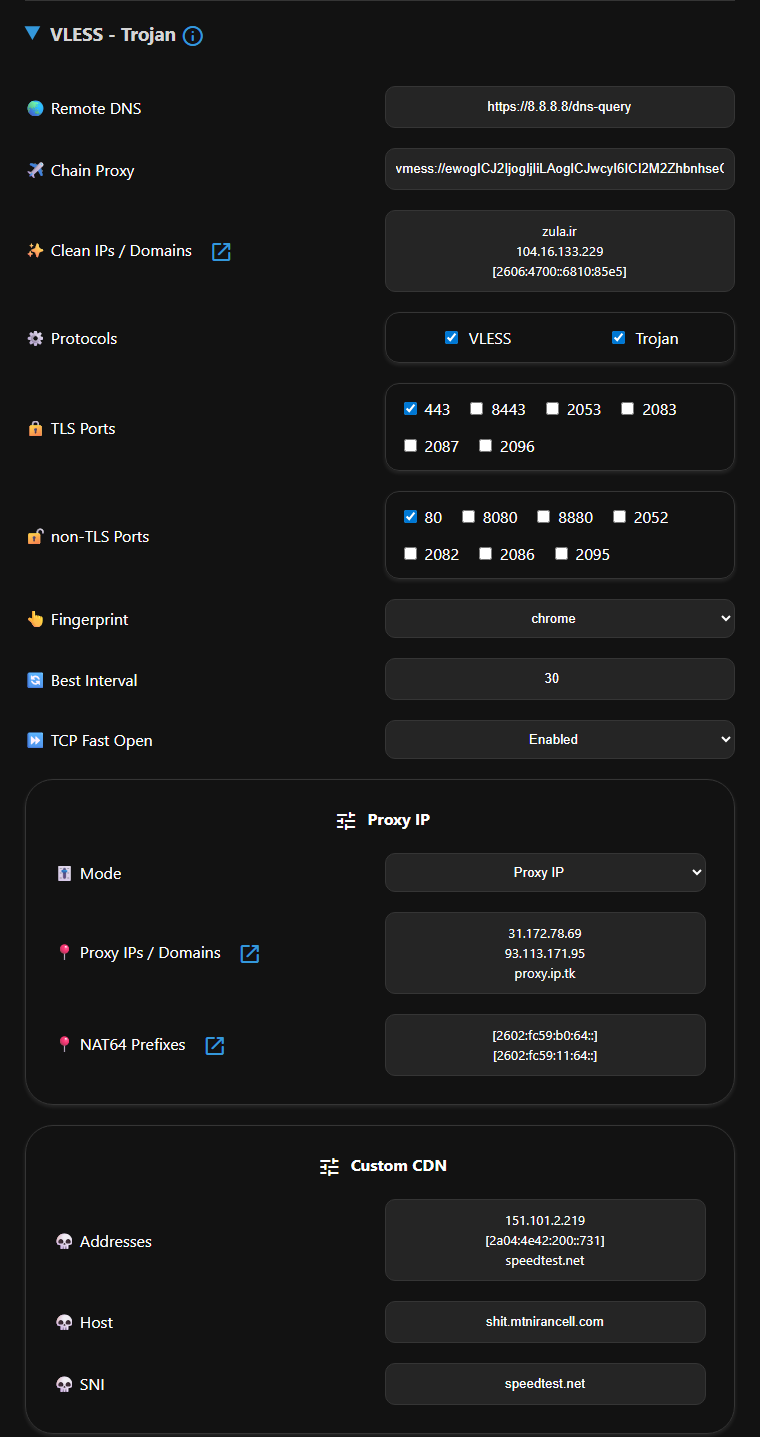
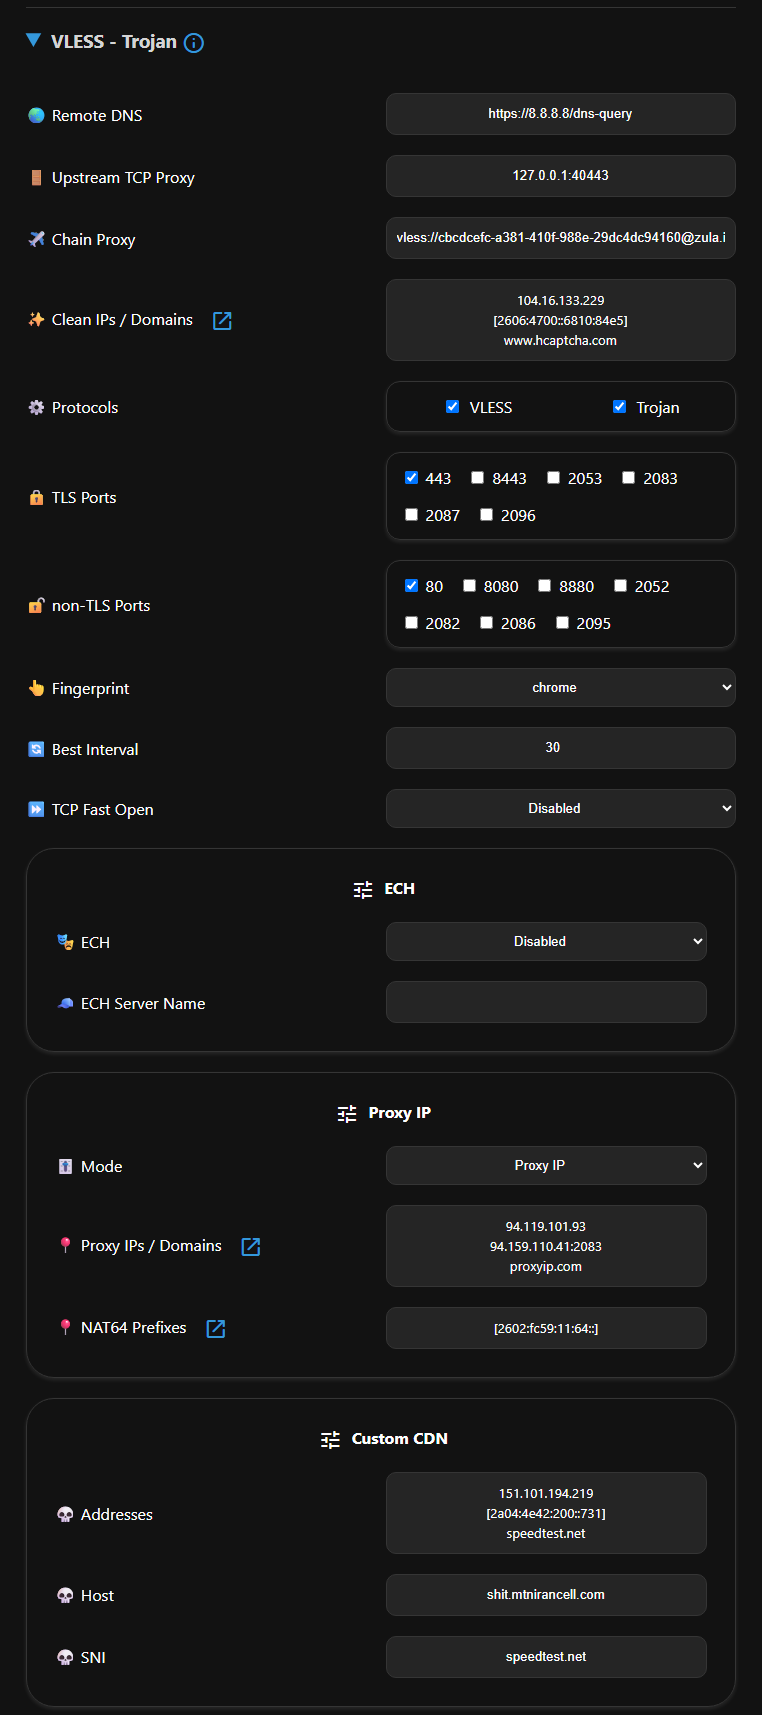
Removed Xray allowInsecure, updated docs, Release 4.2.2

diff --git a/src/cores/xray/outbounds.ts b/src/cores/xray/outbounds.ts
@@ -137,12 +137,11 @@ export function buildWebsocketOutbound(
     } = globalThis;
 
     const isTLS = isHttps(port) || address === upstreamServer;
-    const { host, sni, allowInsecure } = selectSniHost(address);
+    const { host, sni } = selectSniHost(address);
     const tlsSettings = isTLS ? buildTlsSettings(
         sni,
         fingerprint,
         "http/1.1",
-        allowInsecure,
         enableECH && !isFragment,
         echServerName || undefined,
     ) : undefined;
@@ -287,7 +286,7 @@ export function buildChainOutbound(): Outbound | undefined {
         network: type || "raw",
         ...buildTransport(type, headerType, path, host, serviceName, mode, authority),
         security,
-        tlsSettings: security === 'tls' ? buildTlsSettings(sni || address, fp, alpn, false, false, undefined) : undefined,
+        tlsSettings: security === 'tls' ? buildTlsSettings(sni || address, fp, alpn, false, undefined) : undefined,
         realitySettings: security === "reality" ? buildRealitySettings(sni, fp, pbk, sid, spx) : undefined,
         sockopt: buildSockopt(false, false, "UseIPv4", "proxy")
     };
@@ -443,7 +442,6 @@ function buildTlsSettings(
     serverName: string,
     fingerprint: Fingerprint,
     alpn: string,
-    allowInsecure: boolean,
     enableECH: boolean,
     echServerName?: string
 ): TlsSettings {
@@ -454,7 +452,6 @@ function buildTlsSettings(
         serverName,
         fingerprint: fingerprint,
         alpn: alpn?.split(','),
-        allowInsecure,
         echConfigList: enableECH
             ? echServerName
                 ? `${echServerName}+udp://${echQueryDNS}`

diff --git a/src/cores/xray/configs.ts b/src/cores/xray/configs.ts
@@ -69,7 +69,7 @@ async function buildConfig(
     const config: Config = {
         remarks: remark,
         version: {
-            min: "25.10.15"
+            min: "26.2.6"
         },
         log: {
             loglevel: logLevel,

diff --git a/src/types/xray.d.ts b/src/types/xray.d.ts
@@ -126,7 +126,6 @@ export interface TlsSettings {
     serverName: string;
     fingerprint: Fingerprint;
     alpn?: string[];
-    allowInsecure: boolean;
     echConfigList?: string;
 }
 

diff --git a/docs/fa/docs/index.md b/docs/fa/docs/index.md
@@ -43,19 +43,19 @@
 
 ## برنامههای پشتیبانیشده
 
-|       Client        |      Version      | پشتیبانی از Fragment | پشتیبانی از Warp Pro |
-| :-----------------: | :---------------: | :------------------: | :------------------: |
-|     **v2rayNG**     | 1.10.26 یا بالاتر |   :material-check:   |   :material-check:   |
-|     **MahsaNG**     |   14 یا بالاتر    |   :material-check:   |   :material-check:   |
-|     **v2rayN**      | 7.15.4 یا بالاتر  |   :material-check:   |   :material-check:   |
-|   **v2rayN-PRO**    |   1.9 یا بالاتر   |   :material-check:   |   :material-check:   |
-|    **Sing-box**     | 1.11.2 یا بالاتر  |   :material-close:   |   :material-close:   |
-|    **Streisand**    | 1.6.64 یا بالاتر  |   :material-check:   |   :material-check:   |
-|   **Clash Meta**    |                   |   :material-close:   |   :material-check:   |
-| **Clash Verge Rev** |                   |   :material-close:   |   :material-check:   |
-|     **FLClash**     |                   |   :material-close:   |   :material-check:   |
-|   **AmneziaVPN**    |                   |   :material-close:   |   :material-check:   |
-|    **WG Tunnel**    |                   |   :material-close:   |   :material-check:   |
+|       Client        | حداقل نسخه پشتیبانی | پشتیبانی از Fragment | پشتیبانی از Warp Pro |
+| :-----------------: | :-----------------: | :------------------: | :------------------: |
+|     **v2rayNG**     |        2.2.3        |  :heavy_check_mark:  |  :heavy_check_mark:  |
+|     **MahsaNG**     |         16          |  :heavy_check_mark:  |  :heavy_check_mark:  |
+|     **v2rayN**      |       7.22.5        |  :heavy_check_mark:  |  :heavy_check_mark:  |
+|   **v2rayN-PRO**    |         2.0         |  :heavy_check_mark:  |  :heavy_check_mark:  |
+|    **Sing-box**     |       1.12.0        |  :heavy_check_mark:  |         :x:          |
+|    **Streisand**    |       1.6.71        |  :heavy_check_mark:  |  :heavy_check_mark:  |
+|   **Clash Meta**    |                     |         :x:          |  :heavy_check_mark:  |
+| **Clash Verge Rev** |                     |         :x:          |  :heavy_check_mark:  |
+|     **FLClash**     |                     |         :x:          |  :heavy_check_mark:  |
+|   **AmneziaVPN**    |                     |         :x:          |  :heavy_check_mark:  |
+|    **WG Tunnel**    |                     |         :x:          |  :heavy_check_mark:  |
 
 ## متغیرهای محیطی (داشبورد کلادفلر)
 

diff --git a/README_fa.md b/README_fa.md
@@ -52,19 +52,19 @@
 
 <div dir="rtl">
 
-|       Client        |     Version      | پشتیبانی از Fragment | پشتیبانی از Warp Pro |
-| :-----------------: | :--------------: | :------------------: | :------------------: |
-|     **v2rayNG**     | 1.10.26 و بالاتر |  :heavy_check_mark:  |  :heavy_check_mark:  |
-|     **MahsaNG**     |   14 و بالاتر    |  :heavy_check_mark:  |  :heavy_check_mark:  |
-|     **v2rayN**      | 7.15.4 و بالاتر  |  :heavy_check_mark:  |  :heavy_check_mark:  |
-|   **v2rayN-PRO**    |   2.0 و بالاتر   |  :heavy_check_mark:  |  :heavy_check_mark:  |
-|    **Sing-box**     | 1.12.0 و بالاتر  |  :heavy_check_mark:  |         :x:          |
-|    **Streisand**    | 1.6.64 و بالاتر  |  :heavy_check_mark:  |  :heavy_check_mark:  |
-|   **Clash Meta**    |                  |         :x:          |  :heavy_check_mark:  |
-| **Clash Verge Rev** |                  |         :x:          |  :heavy_check_mark:  |
-|     **FLClash**     |                  |         :x:          |  :heavy_check_mark:  |
-|   **AmneziaVPN**    |                  |         :x:          |  :heavy_check_mark:  |
-|    **WG Tunnel**    |                  |         :x:          |  :heavy_check_mark:  |
+|       Client        | حداقل نسخه پشتیبانی | پشتیبانی از Fragment | پشتیبانی از Warp Pro |
+| :-----------------: | :-----------------: | :------------------: | :------------------: |
+|     **v2rayNG**     |        2.2.3        |  :heavy_check_mark:  |  :heavy_check_mark:  |
+|     **MahsaNG**     |         16          |  :heavy_check_mark:  |  :heavy_check_mark:  |
+|     **v2rayN**      |       7.22.5        |  :heavy_check_mark:  |  :heavy_check_mark:  |
+|   **v2rayN-PRO**    |         2.0         |  :heavy_check_mark:  |  :heavy_check_mark:  |
+|    **Sing-box**     |       1.12.0        |  :heavy_check_mark:  |         :x:          |
+|    **Streisand**    |       1.6.71        |  :heavy_check_mark:  |  :heavy_check_mark:  |
+|   **Clash Meta**    |                     |         :x:          |  :heavy_check_mark:  |
+| **Clash Verge Rev** |                     |         :x:          |  :heavy_check_mark:  |
+|     **FLClash**     |                     |         :x:          |  :heavy_check_mark:  |
+|   **AmneziaVPN**    |                     |         :x:          |  :heavy_check_mark:  |
+|    **WG Tunnel**    |                     |         :x:          |  :heavy_check_mark:  |
 
 </div>
 

diff --git a/README.md b/README.md
@@ -50,19 +50,19 @@ This project is aimed to provide a user panel to access FREE, SECURE and PRIVATE
 
 ## Supported Clients
 
-|       Client        |      Version      |  Fragment support  |  Warp Pro support  |
-| :-----------------: | :---------------: | :----------------: | :----------------: |
-|     **v2rayNG**     | 1.10.26 or higher | :heavy_check_mark: | :heavy_check_mark: |
-|     **MahsaNG**     |   14 or higher    | :heavy_check_mark: | :heavy_check_mark: |
-|     **v2rayN**      | 7.15.4 or higher  | :heavy_check_mark: | :heavy_check_mark: |
-|   **v2rayN-PRO**    |   1.9 or higher   | :heavy_check_mark: | :heavy_check_mark: |
-|    **Sing-box**     | 1.12.0 or higher  | :heavy_check_mark: |        :x:         |
-|    **Streisand**    | 1.6.64 or higher  | :heavy_check_mark: | :heavy_check_mark: |
-|   **Clash Meta**    |                   |        :x:         | :heavy_check_mark: |
-| **Clash Verge Rev** |                   |        :x:         | :heavy_check_mark: |
-|     **FLClash**     |                   |        :x:         | :heavy_check_mark: |
-|   **AmneziaVPN**    |                   |        :x:         | :heavy_check_mark: |
-|    **WG Tunnel**    |                   |        :x:         | :heavy_check_mark: |
+|       Client        | Minimum version |  Fragment support  |  Warp Pro support  |
+| :-----------------: | :-------------: | :----------------: | :----------------: |
+|     **v2rayNG**     |      2.2.3      | :heavy_check_mark: | :heavy_check_mark: |
+|     **MahsaNG**     |       16        | :heavy_check_mark: | :heavy_check_mark: |
+|     **v2rayN**      |     7.22.5      | :heavy_check_mark: | :heavy_check_mark: |
+|   **v2rayN-PRO**    |       1.9       | :heavy_check_mark: | :heavy_check_mark: |
+|    **Sing-box**     |     1.12.0      | :heavy_check_mark: |        :x:         |
+|    **Streisand**    |     1.6.71      | :heavy_check_mark: | :heavy_check_mark: |
+|   **Clash Meta**    |                 |        :x:         | :heavy_check_mark: |
+| **Clash Verge Rev** |                 |        :x:         | :heavy_check_mark: |
+|     **FLClash**     |                 |        :x:         | :heavy_check_mark: |
+|   **AmneziaVPN**    |                 |        :x:         | :heavy_check_mark: |
+|    **WG Tunnel**    |                 |        :x:         | :heavy_check_mark: |
 
 ## Environment variables
 

diff --git a/docs/en/docs/index.md b/docs/en/docs/index.md
@@ -43,19 +43,19 @@ This project is aimed to provide a user panel to access FREE, SECURE and PRIVATE
 
 ## Supported Clients
 
-|       Client        |      Version      | Fragment support | Warp Pro support |
-| :-----------------: | :---------------: | :--------------: | :--------------: |
-|     **v2rayNG**     | 1.10.26 or higher | :material-check: | :material-check: |
-|     **MahsaNG**     |   14 or higher    | :material-check: | :material-check: |
-|     **v2rayN**      | 7.15.4 or higher  | :material-check: | :material-check: |
-|   **v2rayN-PRO**    |   1.9 or higher   | :material-check: | :material-check: |
-|    **Sing-box**     | 1.12.0 or higher  | :material-check: | :material-close: |
-|    **Streisand**    | 1.6.64 or higher  | :material-check: | :material-check: |
-|   **Clash Meta**    |                   | :material-close: | :material-check: |
-| **Clash Verge Rev** |                   | :material-close: | :material-check: |
-|     **FLClash**     |                   | :material-close: | :material-check: |
-|   **AmneziaVPN**    |                   | :material-close: | :material-check: |
-|    **WG Tunnel**    |                   | :material-close: | :material-check: |
+|       Client        | Minimum version |  Fragment support  |  Warp Pro support  |
+| :-----------------: | :-------------: | :----------------: | :----------------: |
+|     **v2rayNG**     |      2.2.3      | :heavy_check_mark: | :heavy_check_mark: |
+|     **MahsaNG**     |       16        | :heavy_check_mark: | :heavy_check_mark: |
+|     **v2rayN**      |     7.22.5      | :heavy_check_mark: | :heavy_check_mark: |
+|   **v2rayN-PRO**    |       1.9       | :heavy_check_mark: | :heavy_check_mark: |
+|    **Sing-box**     |     1.12.0      | :heavy_check_mark: |        :x:         |
+|    **Streisand**    |     1.6.71      | :heavy_check_mark: | :heavy_check_mark: |
+|   **Clash Meta**    |                 |        :x:         | :heavy_check_mark: |
+| **Clash Verge Rev** |                 |        :x:         | :heavy_check_mark: |
+|     **FLClash**     |                 |        :x:         | :heavy_check_mark: |
+|   **AmneziaVPN**    |                 |        :x:         | :heavy_check_mark: |
+|    **WG Tunnel**    |                 |        :x:         | :heavy_check_mark: |
 
 ## Environment variables
 

diff --git a/RELEASE.md b/RELEASE.md
@@ -5,21 +5,28 @@
 - **Upstream TCP Proxy**: adds a TLS config to `Normal` and `Raw` subscriptions which can be used with upstream proxies like SNI Spoof. It can be `IPv4:Port`, `[IPv6]:Port` or `Domain:Port`.
 - Implemented FinalMask feature of Xray core. Please update your clients to the latest version to support this.
 - Update Xray UDP Noise and added `Array` mode, you should enter numbers between 0-255 like `1,100,23,18...` in this field.
+- Removed `allowInsecure` from Xray core configs.
 - Fixed hourly releases.
 - Fixed `undefined` appeared in subscriptions links and Warp regestration. #1270 #1291
 - Fixed My IP section.
 - Updated packages and docs.
 - Improved error handling.
 
+> [!CAUTION]
+> 1- No further actions are required if you create a new panel, however it's highly recommended to reset panel settings and update subscriptions if you are upgrading to this version.
+> 2- Please update whatever client you use, specially these ones:
+
+|       Client        | Minimum version |  Fragment support  |  Warp Pro support  |
+| :-----------------: | :-------------: | :----------------: | :----------------: |
+|     **v2rayNG**     |      2.2.3      | :heavy_check_mark: | :heavy_check_mark: |
+|     **MahsaNG**     |       16        | :heavy_check_mark: | :heavy_check_mark: |
+|     **v2rayN**      |     7.22.5      | :heavy_check_mark: | :heavy_check_mark: |
+|    **Sing-box**     |     1.12.0      | :heavy_check_mark: |        :x:         |
+|    **Streisand**    |     1.6.71      | :heavy_check_mark: | :heavy_check_mark: |
+
 ---
 
 ## 💡 Other tips
-
-> [!CAUTION]
-> sing-box client version should be 1.12.0 or higher.
-
-> [!CAUTION]
-> Xray clients should be updated to the latest version i.e. v2rayNG, v2rayN and Streisand.
 
 > [!CAUTION]
 > You have to enable `Hev TUN feature` in v2rayNG in order to connect properly, Xray native Tun is useless right now.

diff --git a/docs/fa/docs/configuration/vless-trojan.md b/docs/fa/docs/configuration/vless-trojan.md
@@ -12,6 +12,10 @@
     - `https://dns.quad9.net/dns-query`
     - `tls://dns.google`
 
+## Upstream TCP Proxy
+
+از این قسمت مستونید برای اضافه کردن یه کانفیگ Upstream به سابهای `Normal` و `Raw` استفاده کنید مثلا برای استفاده از SNI Spoofing فقط کافیه آدرس مربوطه رو اینجا وارد کنید و یه کانفیگ جدید بگیرید که نیازی به ویرایش نداره. مقادیر معتبر میتونه به شکل `IPv4:Port`، `[IPv6]:Port` و یا `Domain:Port` باشه.
+
 ## Chain Proxy
 
 همونطور که گفته شد، Proxy IP باعث ثابت شدن IP برای آدرسهای هدف Cloudflare میشه، ولی IP شما برای بقیه آدرسها ممکنه فرق کنه. **Chain Proxy** یه IP ثابت برای همه آدرسها تضمین میکنه. اینجا میتونید از یه کانفیگ رایگان استفاده کنید، حتی اگه توسط اپراتورتون فیلتر شده باشه، تا IP شما به IP این کانفیگ تغییر کنه.

diff --git a/docs/en/docs/configuration/vless-trojan.md b/docs/en/docs/configuration/vless-trojan.md
@@ -12,6 +12,10 @@ By default, the remote DNS is Google DNS over HTTPS (DoH). However, you can use 
     - `https://dns.quad9.net/dns-query`
     - `tls://dns.google`
 
+## Upstream TCP Proxy
+
+This can be used to setup a TCP upstream proxy like SNI Spoofing and get the Upstream config in `Normal` and `Raw` subscriptions. It can be in forms of `IPv4:Port`, `[IPv6]:Port` and `Domain:Port`.
+
 ## Chain Proxy
 
 As noted, a Proxy IP fixes the IP for Cloudflare target addresses, but node IPs may differ for other targets. A **Chain Proxy** ensures a consistent IP for all targets. You can use a free config here, even if it’s blocked by your ISP, to permanently fix your IP to the Chain Proxy IP.
